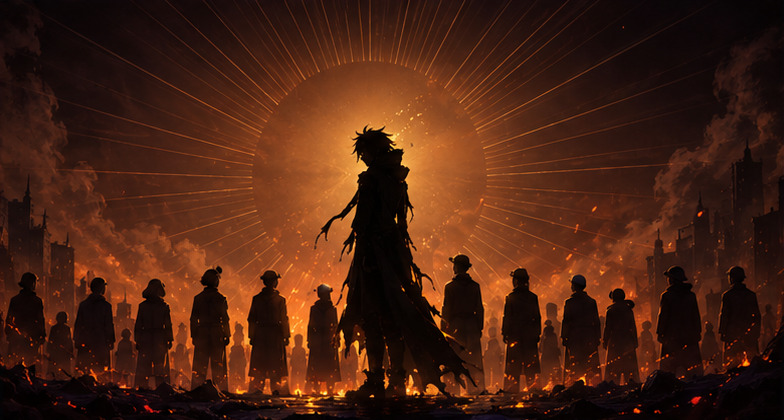
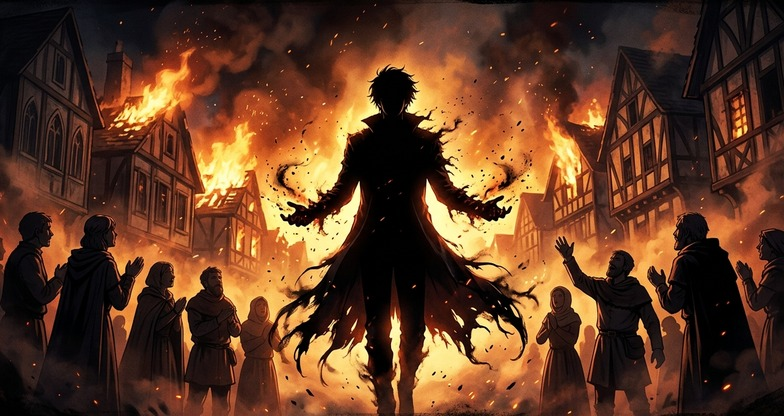
Make all cutscene panels consistent painted artwork

diff --git a/src/scenes/CutsceneScene.js b/src/scenes/CutsceneScene.js
@@ -207,7 +207,7 @@ export class CutsceneScene extends Phaser.Scene {
       const img = add(this.add.image(0, -40, `cut_${panel.art}`));
       const cover = Math.max(pw / img.width, ph / img.height) * 1.05;
       img.setScale(cover);
-      const drift = panel.art === 'fire' || panel.art === 'memory' ? 18 : 0;
+      const drift = panel.art === 'fire' || panel.art === 'memory' || panel.art === 'title' ? 18 : 10;
       img.x = -drift;
       this.tweens.add({ targets: img, x: drift, duration: 9000, ease: 'Sine.easeInOut' });
       const at = (u, v) => [L + u * pw, top + v * ph];
@@ -229,19 +229,67 @@ export class CutsceneScene extends Phaser.Scene {
           break;
         }
         case 'split': {
-          const [mx, my] = at(0.29, 0.62);
-          const [sx, sy] = at(0.63, 0.45);
+          const [mx, my] = at(0.32, 0.60);
+          const [sx, sy] = at(0.65, 0.44);
           pulse(glow(sx, sy, 0x7a4cff, 3, 4.5, 0.25), 0.45, 1600);
-          embers(mx, my, 140, 0.8);
+          embers(mx, my, 180, 0.85);
           motes(sx, sy, 360, 360, [0xb48cff, 0x7a4cff]);
           motes(0, -40, pw, ph, 0x9fb4ff, 1);
           break;
         }
+        case 'lamp': {
+          const [lx, ly] = at(0.57, 0.51);
+          const [hx, hy] = at(0.71, 0.17);
+          const [sx, sy] = at(0.34, 0.72);
+          pulse(glow(lx, ly, 0xffb850, 2.6, 2.6, 0.24), 0.42, 900);
+          pulse(glow(hx, hy, 0xe8c372, 3.2, 3.2, 0.16), 0.3, 1800);
+          pulse(glow(sx, sy, 0x7a4cff, 2.2, 3.2, 0.18), 0.32, 1600);
+          motes(lx, ly, 420, 380, [0xffe8a8, 0xe8c372], -1);
+          motes(sx, sy, 220, 260, [0xb48cff, 0x7a4cff], -1);
+          break;
+        }
+        case 'title': {
+          const [lx, ly] = at(0.81, 0.65);
+          pulse(glow(lx, ly, 0xff9a3d, 2.6, 2.6, 0.22), 0.38, 620);
+          add(this.add.tileSprite(0, 60, pw, 260, 'fog_band').setTint(0x9a8cc0).setAlpha(0.22));
+          motes(0, 0, pw, ph, [0xffd49a, 0xb48cff], -1);
+          const t = add(this.add.text(0, -90, panel.title, { fontFamily: 'Cinzel, Georgia', fontSize: '86px', color: '#f1e6d2', letterSpacing: 16 }).setOrigin(0.5));
+          t.setShadow(0, 0, '#9a6bff', 28, true, true);
+          vignette(0.45);
+          break;
+        }
+        case 'fragment': {
+          const [gx, gy] = at(0.50, 0.24);
+          const [fx, fy] = at(0.55, 0.53);
+          const [sx, sy] = at(0.50, 0.76);
+          pulse(glow(gx, gy, 0xe8c372, 3.4, 3.4, 0.2), 0.35, 1600);
+          pulse(glow(fx, fy, 0xffd070, 2.0, 2.0, 0.28), 0.48, 800);
+          pulse(glow(sx, sy, 0x7a4cff, 2.8, 3.4, 0.2), 0.35, 1500);
+          add(this.add.particles(gx, gy + 20, 'spark', { x: { min: -40, max: 40 }, lifespan: 2200, speedY: { min: 70, max: 140 }, speedX: { min: -12, max: 12 }, scale: { start: 1.0, end: 0.2 }, tint: [0xffe8a8, 0xe8c372], blendMode: 'ADD', frequency: 40 }));
+          motes(sx, sy, 320, 240, [0xb48cff, 0x9a6bff, 0xffe8a8], -1);
+          break;
+        }
         case 'memory': {
-          const [cx, cy] = at(0.5, 0.38);
+          const [cx, cy] = at(0.5, 0.42);
           pulse(glow(cx, cy, 0xffa040, 5, 5, 0.18), 0.34, 1400);
           embers(0, bot - 10, pw, 0.9);
           smoke(0, top + 60, pw, 0x1a0c06, 0.25);
+          break;
+        }
+        case 'resist': {
+          const [rx, ry] = at(0.48, 0.34);
+          const [sx, sy] = at(0.32, 0.65);
+          pulse(glow(rx, ry, 0xffd49a, 3.2, 3.2, 0.24), 0.42, 900);
+          pulse(glow(sx, sy, 0x7a4cff, 2.6, 3.8, 0.22), 0.38, 1500);
+          motes(rx, ry, 280, 280, [0xffe8a8, 0xb48cff, 0xe6dcff], -1);
+          break;
+        }
+        case 'ability': {
+          const [ax, ay] = at(0.70, 0.42);
+          const [lx, ly] = at(0.26, 0.68);
+          pulse(glow(ax, ay, 0x7a4cff, 2.8, 3.8, 0.24), 0.42, 1200);
+          pulse(glow(lx, ly, 0xffa040, 2.4, 2.4, 0.18), 0.32, 900);
+          motes(ax, ay, 240, 320, [0xb48cff, 0x9a6bff], -1);
           break;
         }
         default: break;

diff --git a/src/dev/artPreview.js b/src/dev/artPreview.js
@@ -1,6 +1,15 @@
-// Dev tool: paints every character sheet and scenery texture onto a plain page,
+// Dev tool: paints every character sheet, cutscene panel, and scenery texture onto a plain page,
 // so art can be checked without playing to the right spot.
 import { paintSheets } from '../art/characters.js';
+import cutFire from '../assets/cutscenes/fire.jpg';
+import cutDoorway from '../assets/cutscenes/doorway.jpg';
+import cutSplit from '../assets/cutscenes/split.jpg';
+import cutLamp from '../assets/cutscenes/lamp.jpg';
+import cutTitle from '../assets/cutscenes/title.jpg';
+import cutFragment from '../assets/cutscenes/fragment.jpg';
+import cutMemory from '../assets/cutscenes/memory.jpg';
+import cutResist from '../assets/cutscenes/resist.jpg';
+import cutAbility from '../assets/cutscenes/ability.jpg';
 
 const out = document.getElementById('out');
 const params = new URLSearchParams(location.search);
@@ -51,6 +60,31 @@ function closeups(sheet, def) {
   return list;
 }
 
+if (!only || only === 'cutscenes') {
+  const cutscenes = [
+    ['fire', cutFire],
+    ['doorway', cutDoorway],
+    ['split', cutSplit],
+    ['lamp', cutLamp],
+    ['title', cutTitle],
+    ['fragment', cutFragment],
+    ['memory', cutMemory],
+    ['resist', cutResist],
+    ['ability', cutAbility],
+  ];
+  const nodes = cutscenes.map(([name, url]) => {
+    const img = document.createElement('img');
+    img.src = url;
+    img.title = name;
+    img.alt = name;
+    img.style.width = '392px';
+    img.style.height = '208px';
+    img.style.border = '2px solid #e9e2f5';
+    return img;
+  });
+  section('Cutscene panels', nodes);
+}
+
 if (!only || only === 'chars') {
   const sheets = paintSheets();
   for (const [key, { sheet, def }] of Object.entries(sheets)) {
@@ -60,7 +94,7 @@ if (!only || only === 'chars') {
 }
 
 import('../art/scenery.js').then((m) => {
-  if (only === 'chars' || !m.previewScenery) { document.body.dataset.ready = '1'; return; }
+  if (only === 'chars' || only === 'cutscenes' || !m.previewScenery) { document.body.dataset.ready = '1'; return; }
   for (const [title, canvases] of m.previewScenery(params)) section(title, canvases);
   document.body.dataset.ready = '1';
 }).catch((e) => { console.error(e); document.body.dataset.ready = '1'; });

diff --git a/src/scenes/BootScene.js b/src/scenes/BootScene.js
@@ -10,12 +10,27 @@ import { registerPipelines } from '../systems/fx.js';
 import cutFire from '../assets/cutscenes/fire.jpg';
 import cutDoorway from '../assets/cutscenes/doorway.jpg';
 import cutSplit from '../assets/cutscenes/split.jpg';
+import cutLamp from '../assets/cutscenes/lamp.jpg';
+import cutTitle from '../assets/cutscenes/title.jpg';
+import cutFragment from '../assets/cutscenes/fragment.jpg';
 import cutMemory from '../assets/cutscenes/memory.jpg';
+import cutResist from '../assets/cutscenes/resist.jpg';
+import cutAbility from '../assets/cutscenes/ability.jpg';
 
 // Painted cutscene panels. CutsceneScene uses 'cut_<art>' when it exists and
 // falls back to its code-drawn painter otherwise. Add a panel by dropping an
 // image in src/assets/cutscenes/ and listing it here.
-const CUTSCENE_ART = { fire: cutFire, doorway: cutDoorway, split: cutSplit, memory: cutMemory };
+const CUTSCENE_ART = {
+  fire: cutFire,
+  doorway: cutDoorway,
+  split: cutSplit,
+  lamp: cutLamp,
+  title: cutTitle,
+  fragment: cutFragment,
+  memory: cutMemory,
+  resist: cutResist,
+  ability: cutAbility,
+};
 
 export class BootScene extends Phaser.Scene {
   constructor() {
